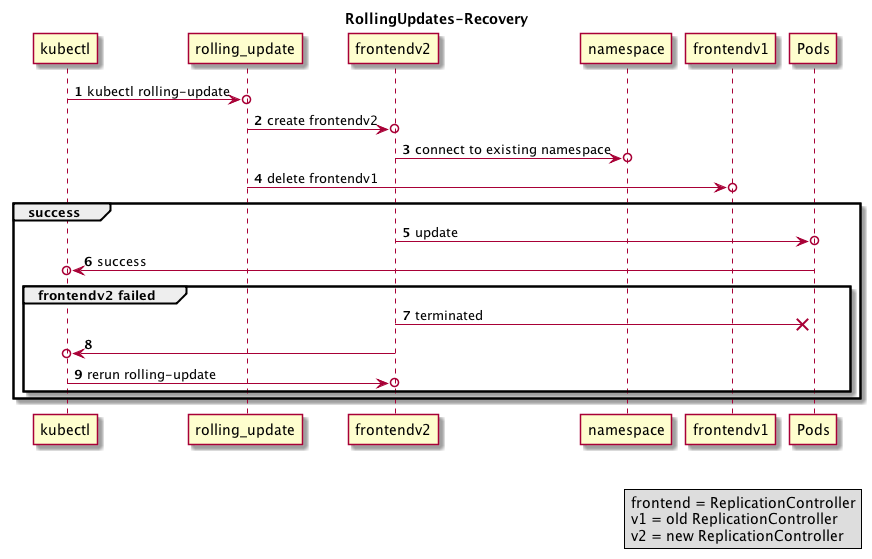
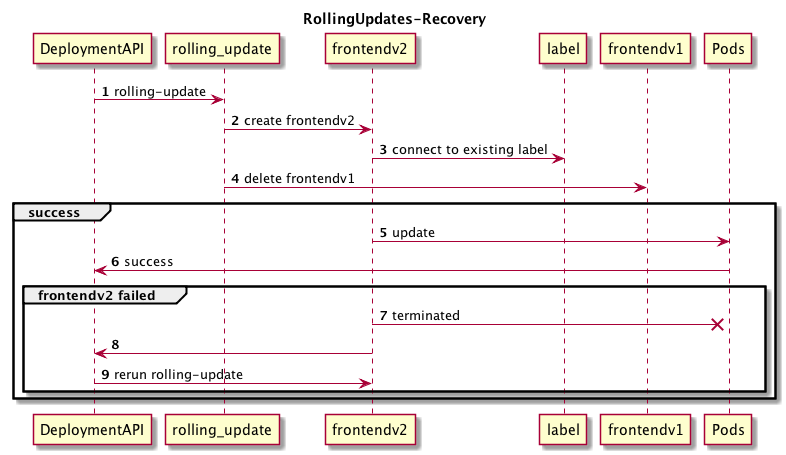
update README.md

diff --git a/blue-green-doc/recreate.tex b/blue-green-doc/recreate.tex
@@ -2,28 +2,29 @@
 title Recreate
 
 autonumber
-kubectl -> recreate: kubectl recreate
-create -> frontendv1: destroy old pods
-frontendv1 -> legacu_pods: destroy pods
-frontendv1 -> frontendv2: create pods
-frontendv2 -> new_pods: deploy pods
+DeploymentAPI -> recreate: recreate
+recreate -> frontendv1: destroy old pods
+frontendv1 -> legacy_pods: destroy pods
+frontendv1 -> DeploymentAPI: pods destroyed
+DeploymentAPI -> frontendv2: create pods
+frontendv2 -> updated_pods: deploy pods
 group rollback
-  kubectl -> recreate: initiate rollback
+  DeploymentAPI -> recreate: initiate rollback
   recreate -> frontendv2: rollback
-  frontendv2 ->o new_pods: destroy new pods
+  frontendv2 ->o updated_pods: destroy new pods
   recreate -> frontendv1: recreate pods
   frontendv1 -> legacy_pods: deploy pods
-  legacy_pods -> kubectl: rollback complete
+  legacy_pods -> DeploymentAPI: rollback complete
 end
 
 box "new rc and pods" #b4f985
   participant frontendv2
-  participant new_pods
+  participant updated_pods
 end box
 
 box "legacy rc and pods" #adb1f4
   participant frontendv1
-  participant old_pods
+  participant legacy_pods
 end box
 
 @enduml

diff --git a/cicd_flow/CICDFlow.tex b/cicd_flow/CICDFlow.tex
@@ -2,28 +2,30 @@
 
 title CICD Flow
 
-actor Operator
+actor OperatorDev
 
 autonumber
 Group Build
-  Operator -> Code
-  Code -> Git
-  Git -> Nexus
-  Operator -> ConfigMgr
-  Operator -> CliQrApp
-  Operator -> JenkinsJob
-  Operator -> SmokeTest
+  OperatorDev -> Code: write code
+  Code -> Git: commit code
+  Git -> Nexus: create rpms
+  OperatorDev -> CliQrApp: create CliQrApp
+  OperatorDev -> ConfigMgr: create config
+  OperatorDev -> JenkinsJob: create Jenkins job
+  OperatorDev -> SmokeTest: run smoke tests
 End
 
-Group Deploy
-  Operator -> JenkinsJob
-  JenkinsJob -> Rerun: rerun cliqrapp
-  Rerun -> CliQrApp: <app_id>
-  CliQrApp -> VMware
-  CliQrApp -> Rerun: common-init, app-rerun modules
-  CliQrApp -> Nexus: rpm installs
+Group Deploy Phase
+  OperatorDev -> JenkinsJob: execute Jenkins job
+  JenkinsJob -> Rerun: rerun cliqrapp: start
+  Rerun -> CliQrApp: run cliqrapp id
+  Group App Deploy
+    CliQrApp -> VMware: deploy VM
+    VMware -> Rerun: common-init
+    CliQrApp <-> Nexus: rpm installs
+  End
+  CliQrApp -> OperatorDev
 End
-
 
 
 @enduml

diff --git a/blue-green-doc/rolling_rollback.tex b/blue-green-doc/rolling_rollback.tex
@@ -1,20 +1,18 @@
 @startuml
 title RollingUpdates-Rollback
 
-kubectl -> rolling_update: kubectl rolling-update
-note right: kubectl rolling-update frontendv1 frontendv2 -f frontendv2.yml
+DeploymentAPI -> rolling_update: rolling-update
 rolling_update -> frontendv2: create frontendv2
-frontendv2 -> namespace: existing namespace
+frontendv2 -> label: existing label
 rolling_update -> frontendv1: delete frontendv1
 
 autonumber 5
 group abort update
   frontendv2 ->x New_Pods: update
-  Pods -> kubectl: aborted
+  Pods -> DeploymentAPI: aborted
   group rollback
-    kubectl -> frontendv2: delete frontendv2
-    note right: <w:#fa7070> kubectl rolling-update frontendv1 frontendv2 -f frontendv2.yml --rollback </w>
-    kubectl -> frontendv1: create frontendv1
+    DeploymentAPI -> frontendv2: delete frontendv2
+    DeploymentAPI -> frontendv1: create frontendv1
     frontendv1 ->o Legacy_Pods: run rollback
     end
 end

diff --git a/blue-green-doc/traffic_shift.tex b/blue-green-doc/traffic_shift.tex
@@ -1,17 +1,17 @@
 @startuml
-title Traffic Shift
+title BlueGreen (Traffic Shift)
 
 autonumber
-kubectl -> traffic_shift: kubectl traffic shift
-traffic_shift -> frontendv2: create frontendv2
+DeploymentAPI -> BlueGreen: start deployment
+BlueGreen -> frontendv2: create frontendv2
 frontendv2 -> updated_pods: deploy pods
-new_pods -> label_query: reroute traffic
-new_pods ->o kubectl: successful update
-group rollback
-  kubectl -> label_query: initiate rollback
+updated_pods -> label_query: reroute traffic
+label_query ->o DeploymentAPI: successful update
+group fail-back
+  DeploymentAPI -> label_query: initiate rollback
   label_query -> frontendv1: route trafic to legacy
   frontendv1 -> legacy_pods: traffic routed
-  legacy_pods -> kubectl: rollback complete
+  legacy_pods -> DeploymentAPI: rollback complete
 end
 
 box "update rc and pods" #b4f985

diff --git a/blue-green-doc/rolling_fail.tex b/blue-green-doc/rolling_fail.tex
@@ -2,19 +2,18 @@
 title RollingUpdates-Recovery
 
 autonumber
-kubectl -> rolling_update: kubectl rolling-update
-note right: kubectl rolling-update frontendv1 frontendv2 --image=app_v2 | -f frontendv2.yml
+DeploymentAPI -> rolling_update: rolling-update
 rolling_update -> frontendv2: create frontendv2
-frontendv2 -> namespace: connect to existing namespace
+frontendv2 -> label: connect to existing label
 rolling_update -> frontendv1: delete frontendv1
 
 group success
   frontendv2 -> Pods: update
-  Pods -> kubectl: success
+  Pods -> DeploymentAPI: success
   group frontendv2 failed
     frontendv2 ->x Pods: terminated
-    frontendv2 -> kubectl
-    kubectl -> frontendv2: rerun rolling-update
+    frontendv2 -> DeploymentAPI
+    DeploymentAPI -> frontendv2: rerun rolling-update
     end
 end
 

diff --git a/blue-green-doc/RollingUpdates.tex b/blue-green-doc/RollingUpdates.tex
@@ -2,13 +2,12 @@
 title RollingUpdates
 
 autonumber
-kubectl -> rolling_update: kubectl rolling-update
-note right: kubectl rolling-update frontendv1 frontendv2 --image=app_v2 | -f frontendv2.yml
+DeploymentAPI -> rolling_update: rolling-update
 rolling_update -> frontendv2: create frontendv2
-frontendv2 -> namespace: connect to existing namespace
+frontendv2 -> label: connect to existing label
 rolling_update -> frontendv1: delete frontendv1
 frontendv2 -> pods: update pods
 pods -> frontendv2: success
-frontendv2 ->o kubectl: successful update
+frontendv2 ->o DeploymentAPI: successful update
 
 @enduml

diff --git a/README.md b/README.md
@@ -1,6 +1,6 @@
 # PlantUML
 
-These diagrams are my learning PlantUML
+These diagrams are written in PlantUML
 
 ## Requirements
 
@@ -9,6 +9,12 @@ http://plantuml.com
 ## Other info
 
 * atom plugin (plantuml-language)
+
+## PNG
+
+Likely, you'll need to generate the PlantUMLs again.
+
+The Java app can be installed from the link above.
 
 ## DISCLAIMER
 
